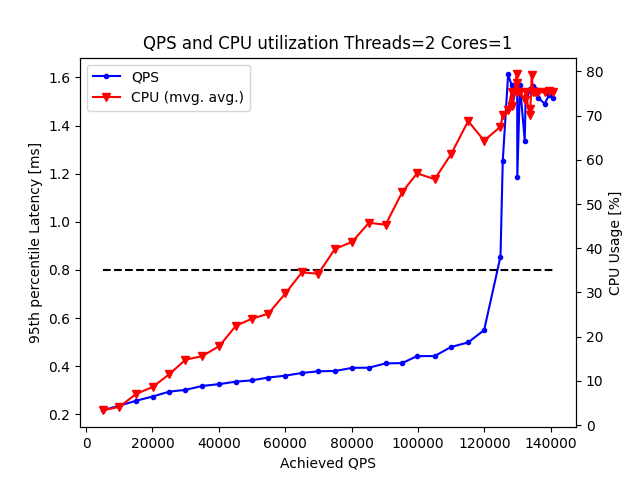
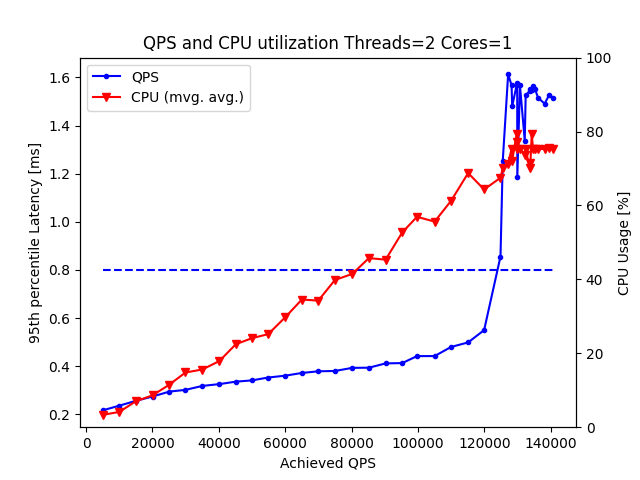
Update the fig based on report requirement and the corresponding README part

diff --git a/part4/src/plot-results_4-1-d.py b/part4/src/plot-results_4-1-d.py
@@ -49,11 +49,12 @@ fig, ax = plt.subplots()
 ax.plot(df['QPS'], df['p95']/1000, label='QPS', c='blue', marker='.')
 ax.set_xlabel('Achieved QPS')
 ax.set_ylabel('95th percentile Latency [ms]')
-ax.hlines(0.8, df['QPS'].iloc[0], df['QPS'].iloc[-1], colors='black', linestyles='dashed')
+ax.hlines(0.8, df['QPS'].iloc[0], df['QPS'].iloc[-1], colors='blue', linestyles='dashed')
 
 ax2 = ax.twinx()
 ax2.plot(df['QPS'], df['CPU'], label='CPU (mvg. avg.)', c='red', marker="v")
 ax2.set_ylabel('CPU Usage [%]')
+ax2.set_ylim(0, 100 * CORES)
 
 
 lines1, labels1 = ax.get_legend_handles_labels()

diff --git a/part4/README.md b/part4/README.md
@@ -61,19 +61,27 @@ t<num_of_threads>_c<num_of_cores>-run<run_index>.txt
 ```
 
 ### Step 4.1.a Plot the p95 Latency for --scan 5000:220000:5000
-After Step 3, you should have collected p95 lantecy results under different numbers of threads/CPU cores. Since the test under each condition is required to be simulated at least three times, there should be at least 12 files saved in the ```result``` folder.
-To visualize the relationship between p95 tail latency and QPS, run:
+After Step 3, you should have collected p95 lantecy results under different numbers of threads/CPU cores. Since the test under each condition is required to be simulated at least three times, there should be at least 12 files saved in the ```log/4-1-a``` folder.
+To visualize the relationship between p95 tail latency and QPS under various configurations, run:
 ```
 python3 plot-results_4-1-a.py
 ```
+The file is called `plot-results_4-1-a.py` because it corresponds to part 4.1.a in the report.
 
-## 4.1.d Plotting 
-Collect memcached results and save it into the results-cpu folder as txt
-Collect cpu results and save it into the results-cpu folder as txt
+## 4.1.d Plot the p95 Latency and CPU utilization for --scan 5000:220000:5000 with 1 and 2 threads comparison
+Collect the memcached results and save as .txt files in the ```log/4-1-d``` directory, using the naming scheme ```t2c<1/2>-run<1/2/3>.txt```
+Collect the CPU usage results and save them in the same ```log/4-1-d``` directory with the naming scheme ```cpu<1/2>-run<1/2/3>.txt```
+To visualize the relationship between the achieved QPS, p95 tail latency and CPU utilization under 1-core vs. 2-core settings, run:
+```
+python3 plot-results_4-1-d.py
+```
+The file is named `plot-results_4-1-d.py` to correspond with part 4.1.d in the report.
 
-To adjust the threads follow the project description.
-To adjust cores run (in the memcache terminal):
+To adjust the number of threads follow the project description.
+To adjust the number of CPU cores, run the following in the memcached server terminal:
+```
 sudo taskset -a -cp [<cores as list>] <PID-MEMCACHED>
+```
 
 (-a flag is important!)
 
